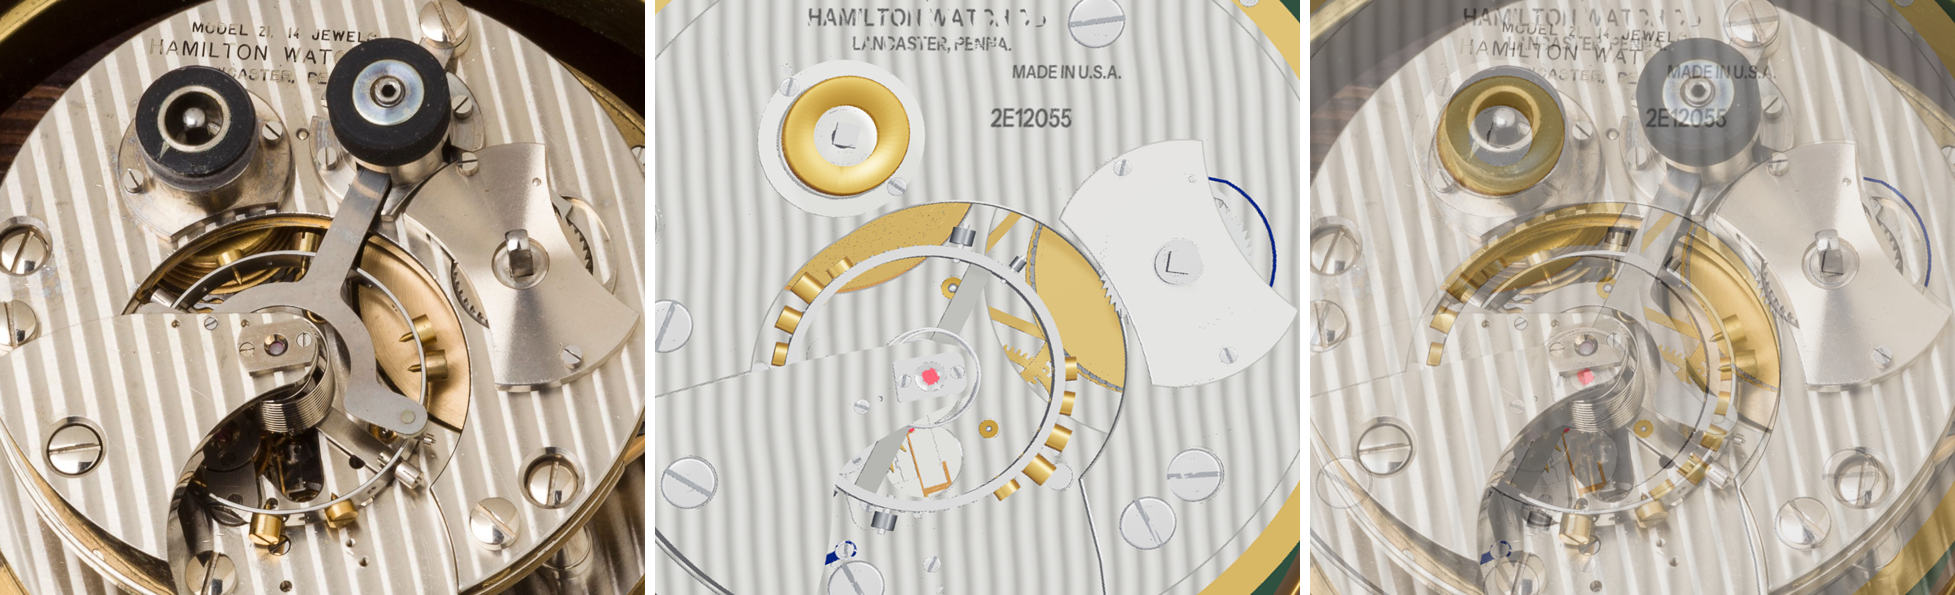
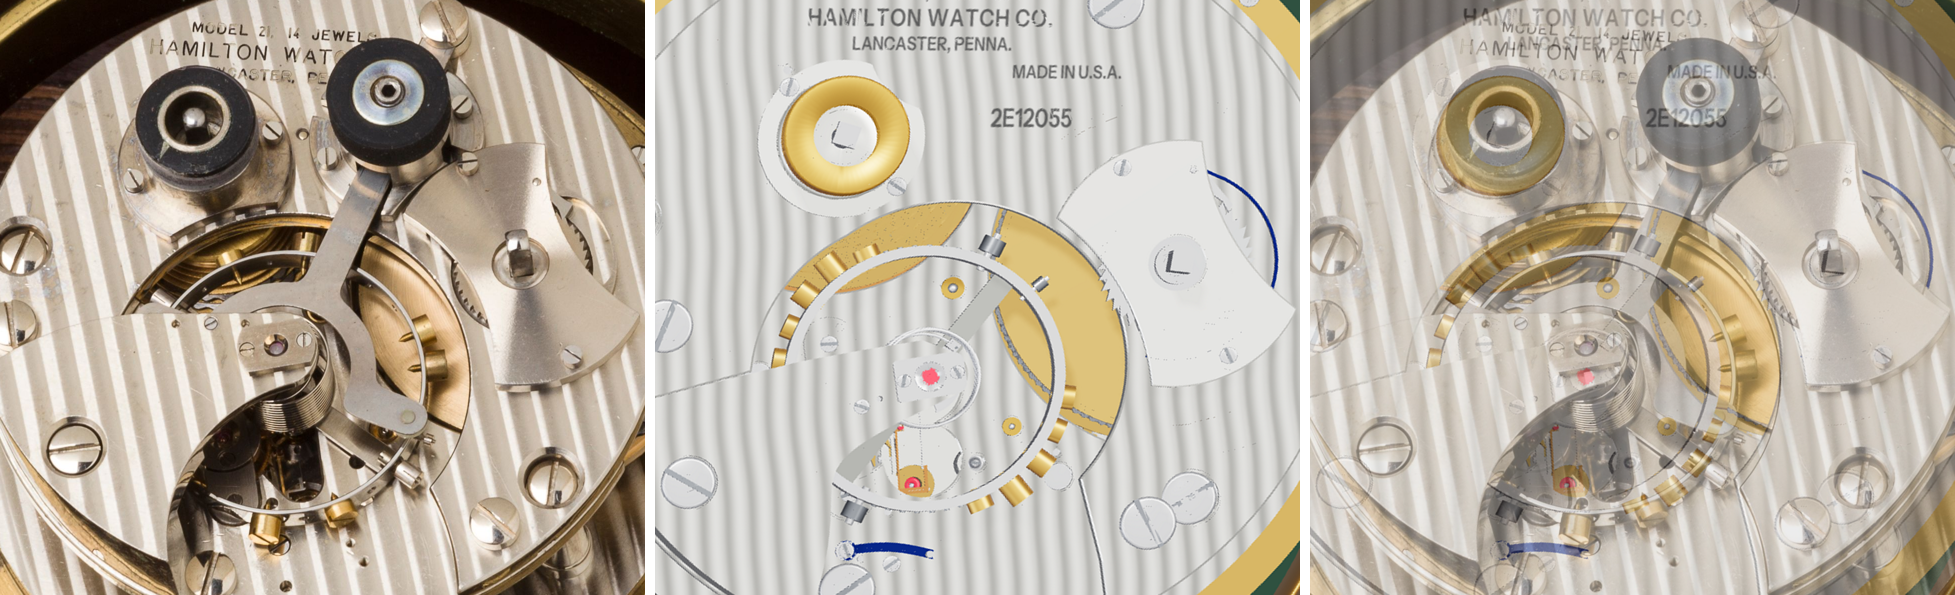
Setup cover symmetric, as both photographs show: two end arcs round the arbor and two like concave sides

diff --git a/chronometer-working-model.html b/chronometer-working-model.html
@@ -2419,14 +2419,15 @@ function buildMovement(M){
     hn(mesh(rt,stripGeo([...arcP,E],0.3,0.85),M.blued,0,BB_T-0.85,0),'42028');   /* on the bridge, up to the click's middle */
     for(const q of[P2(SR+0.42,a0+3),P2(SR-0.42,a0+12)])hn(cylBetween(rt,0.25,-27.71,-27.16,M.steel,...q),'42028',{sub:1});}
   const nBefore=rt.children.length;
-  { /* outline in polar coordinates about the arbor: left end arc, rim-side concave edge (to r 5.9, within 0.5 mm of the photograph), right end,
-       centre-side concave edge (to r 6.4) */
+  { /* outline in polar coordinates about the arbor, symmetric about its long axis (107.5 deg / 287.5 deg) and across it, as both photographs show: two end arcs
+       round the arbor at r 12.87, 76.5 deg wide, and two like concave edges to r 5.95, each bowed in about a tenth of its chord (photo-movement-2E12055: 0.104 and
+       0.109; the top-view photograph: 0.114 and 0.079; read by eye on each, the sides' difference within the reading's noise) */
     const arc3=(a,b,c,n)=>{const[ax,az]=a,[bx,bz]=b,[cx2,cz2]=c,d=2*(ax*(bz-cz2)+bx*(cz2-az)+cx2*(az-bz)),
         ux=((ax*ax+az*az)*(bz-cz2)+(bx*bx+bz*bz)*(cz2-az)+(cx2*cx2+cz2*cz2)*(az-bz))/d,uz=((ax*ax+az*az)*(cx2-bx)+(bx*bx+bz*bz)*(ax-cx2)+(cx2*cx2+cz2*cz2)*(bx-ax))/d,
         r=Math.hypot(ax-ux,az-uz),t0=Math.atan2(az-uz,ax-ux),tm=Math.atan2(bz-uz,bx-ux);let t1=Math.atan2(cz2-uz,cx2-ux);
       const w=t=>((t-t0)%TAU+TAU)%TAU;let dt=w(t1);if(w(tm)>dt)dt-=TAU;const o=[];for(let k=1;k<n;k++){const t=t0+dt*k/n;o.push([ux+r*Math.cos(t),uz+r*Math.sin(t)]);}return o;};
-    const TL=P2(12.8,69.4),BL=P2(13.1,145.6),BR=P2(12.97,249.2),TR=P2(12.61,325.9),pts=[],polar=(r0,r1,a0,a1,n)=>{const o=[];for(let k=0;k<=n;k++){const t=k/n;o.push(P2(lerp(r0,r1,t),lerp(a0,a1,t)));}return o;};
-    pts.push(TL,...arc3(TL,P2(13.1,106),BL,20),BL,...arc3(BL,P2(5.9,192),BR,40),BR,...polar(12.97,12.61,249.2,325.9,30).slice(1,-1),TR,...arc3(TR,P2(6.4,17),TL,40));
+    const CA=107.5,CH=38.25,CR=12.87,CW=5.95,TL=P2(CR,CA-CH),BL=P2(CR,CA+CH),BR=P2(CR,CA+180-CH),TR=P2(CR,CA+180+CH),pts=[],polar=(a0,a1,n)=>{const o=[];for(let k=1;k<n;k++)o.push(P2(CR,lerp(a0,a1,k/n)));return o;};
+    pts.push(TL,...polar(CA-CH,CA+CH,30),BL,...arc3(BL,P2(CW,CA+90),BR,40),BR,...polar(CA+180-CH,CA+180+CH,30),TR,...arc3(TR,P2(CW,CA-90),TL,40));
     const s=new THREE.Shape();pts.forEach(([x,z],i)=>i?s.lineTo(x,-z):s.moveTo(x,-z));s.closePath();
     for(const[x,z,r]of[[...L.Ba,3.0],...S.cover.map(q=>hC(...q,0.9)),hC(...S.click,0.6)]){const h=new THREE.Path();h.absarc(x,-z,r,0,TAU,true);s.holes.push(h);}
     const cvg=extrude(s,{depth:0.8,bevelEnabled:true,bevelThickness:0.15,bevelSize:0.15,bevelSegments:1,curveSegments:24});cvg.rotateX(-Math.PI/2);cvg.translate(0,0.15,0);

diff --git a/marine-chronometer-source/chronometer-working-model/dist/chronometer-working-model.html b/marine-chronometer-source/chronometer-working-model/dist/chronometer-working-model.html
@@ -2419,14 +2419,15 @@ function buildMovement(M){
     hn(mesh(rt,stripGeo([...arcP,E],0.3,0.85),M.blued,0,BB_T-0.85,0),'42028');   /* on the bridge, up to the click's middle */
     for(const q of[P2(SR+0.42,a0+3),P2(SR-0.42,a0+12)])hn(cylBetween(rt,0.25,-27.71,-27.16,M.steel,...q),'42028',{sub:1});}
   const nBefore=rt.children.length;
-  { /* outline in polar coordinates about the arbor: left end arc, rim-side concave edge (to r 5.9, within 0.5 mm of the photograph), right end,
-       centre-side concave edge (to r 6.4) */
+  { /* outline in polar coordinates about the arbor, symmetric about its long axis (107.5 deg / 287.5 deg) and across it, as both photographs show: two end arcs
+       round the arbor at r 12.87, 76.5 deg wide, and two like concave edges to r 5.95, each bowed in about a tenth of its chord (photo-movement-2E12055: 0.104 and
+       0.109; the top-view photograph: 0.114 and 0.079; read by eye on each, the sides' difference within the reading's noise) */
     const arc3=(a,b,c,n)=>{const[ax,az]=a,[bx,bz]=b,[cx2,cz2]=c,d=2*(ax*(bz-cz2)+bx*(cz2-az)+cx2*(az-bz)),
         ux=((ax*ax+az*az)*(bz-cz2)+(bx*bx+bz*bz)*(cz2-az)+(cx2*cx2+cz2*cz2)*(az-bz))/d,uz=((ax*ax+az*az)*(cx2-bx)+(bx*bx+bz*bz)*(ax-cx2)+(cx2*cx2+cz2*cz2)*(bx-ax))/d,
         r=Math.hypot(ax-ux,az-uz),t0=Math.atan2(az-uz,ax-ux),tm=Math.atan2(bz-uz,bx-ux);let t1=Math.atan2(cz2-uz,cx2-ux);
       const w=t=>((t-t0)%TAU+TAU)%TAU;let dt=w(t1);if(w(tm)>dt)dt-=TAU;const o=[];for(let k=1;k<n;k++){const t=t0+dt*k/n;o.push([ux+r*Math.cos(t),uz+r*Math.sin(t)]);}return o;};
-    const TL=P2(12.8,69.4),BL=P2(13.1,145.6),BR=P2(12.97,249.2),TR=P2(12.61,325.9),pts=[],polar=(r0,r1,a0,a1,n)=>{const o=[];for(let k=0;k<=n;k++){const t=k/n;o.push(P2(lerp(r0,r1,t),lerp(a0,a1,t)));}return o;};
-    pts.push(TL,...arc3(TL,P2(13.1,106),BL,20),BL,...arc3(BL,P2(5.9,192),BR,40),BR,...polar(12.97,12.61,249.2,325.9,30).slice(1,-1),TR,...arc3(TR,P2(6.4,17),TL,40));
+    const CA=107.5,CH=38.25,CR=12.87,CW=5.95,TL=P2(CR,CA-CH),BL=P2(CR,CA+CH),BR=P2(CR,CA+180-CH),TR=P2(CR,CA+180+CH),pts=[],polar=(a0,a1,n)=>{const o=[];for(let k=1;k<n;k++)o.push(P2(CR,lerp(a0,a1,k/n)));return o;};
+    pts.push(TL,...polar(CA-CH,CA+CH,30),BL,...arc3(BL,P2(CW,CA+90),BR,40),BR,...polar(CA+180-CH,CA+180+CH,30),TR,...arc3(TR,P2(CW,CA-90),TL,40));
     const s=new THREE.Shape();pts.forEach(([x,z],i)=>i?s.lineTo(x,-z):s.moveTo(x,-z));s.closePath();
     for(const[x,z,r]of[[...L.Ba,3.0],...S.cover.map(q=>hC(...q,0.9)),hC(...S.click,0.6)]){const h=new THREE.Path();h.absarc(x,-z,r,0,TAU,true);s.holes.push(h);}
     const cvg=extrude(s,{depth:0.8,bevelEnabled:true,bevelThickness:0.15,bevelSize:0.15,bevelSegments:1,curveSegments:24});cvg.rotateX(-Math.PI/2);cvg.translate(0,0.15,0);

diff --git a/site/index.html b/site/index.html
@@ -2425,14 +2425,15 @@ function buildMovement(M){
     hn(mesh(rt,stripGeo([...arcP,E],0.3,0.85),M.blued,0,BB_T-0.85,0),'42028');   /* on the bridge, up to the click's middle */
     for(const q of[P2(SR+0.42,a0+3),P2(SR-0.42,a0+12)])hn(cylBetween(rt,0.25,-27.71,-27.16,M.steel,...q),'42028',{sub:1});}
   const nBefore=rt.children.length;
-  { /* outline in polar coordinates about the arbor: left end arc, rim-side concave edge (to r 5.9, within 0.5 mm of the photograph), right end,
-       centre-side concave edge (to r 6.4) */
+  { /* outline in polar coordinates about the arbor, symmetric about its long axis (107.5 deg / 287.5 deg) and across it, as both photographs show: two end arcs
+       round the arbor at r 12.87, 76.5 deg wide, and two like concave edges to r 5.95, each bowed in about a tenth of its chord (photo-movement-2E12055: 0.104 and
+       0.109; the top-view photograph: 0.114 and 0.079; read by eye on each, the sides' difference within the reading's noise) */
     const arc3=(a,b,c,n)=>{const[ax,az]=a,[bx,bz]=b,[cx2,cz2]=c,d=2*(ax*(bz-cz2)+bx*(cz2-az)+cx2*(az-bz)),
         ux=((ax*ax+az*az)*(bz-cz2)+(bx*bx+bz*bz)*(cz2-az)+(cx2*cx2+cz2*cz2)*(az-bz))/d,uz=((ax*ax+az*az)*(cx2-bx)+(bx*bx+bz*bz)*(ax-cx2)+(cx2*cx2+cz2*cz2)*(bx-ax))/d,
         r=Math.hypot(ax-ux,az-uz),t0=Math.atan2(az-uz,ax-ux),tm=Math.atan2(bz-uz,bx-ux);let t1=Math.atan2(cz2-uz,cx2-ux);
       const w=t=>((t-t0)%TAU+TAU)%TAU;let dt=w(t1);if(w(tm)>dt)dt-=TAU;const o=[];for(let k=1;k<n;k++){const t=t0+dt*k/n;o.push([ux+r*Math.cos(t),uz+r*Math.sin(t)]);}return o;};
-    const TL=P2(12.8,69.4),BL=P2(13.1,145.6),BR=P2(12.97,249.2),TR=P2(12.61,325.9),pts=[],polar=(r0,r1,a0,a1,n)=>{const o=[];for(let k=0;k<=n;k++){const t=k/n;o.push(P2(lerp(r0,r1,t),lerp(a0,a1,t)));}return o;};
-    pts.push(TL,...arc3(TL,P2(13.1,106),BL,20),BL,...arc3(BL,P2(5.9,192),BR,40),BR,...polar(12.97,12.61,249.2,325.9,30).slice(1,-1),TR,...arc3(TR,P2(6.4,17),TL,40));
+    const CA=107.5,CH=38.25,CR=12.87,CW=5.95,TL=P2(CR,CA-CH),BL=P2(CR,CA+CH),BR=P2(CR,CA+180-CH),TR=P2(CR,CA+180+CH),pts=[],polar=(a0,a1,n)=>{const o=[];for(let k=1;k<n;k++)o.push(P2(CR,lerp(a0,a1,k/n)));return o;};
+    pts.push(TL,...polar(CA-CH,CA+CH,30),BL,...arc3(BL,P2(CW,CA+90),BR,40),BR,...polar(CA+180-CH,CA+180+CH,30),TR,...arc3(TR,P2(CW,CA-90),TL,40));
     const s=new THREE.Shape();pts.forEach(([x,z],i)=>i?s.lineTo(x,-z):s.moveTo(x,-z));s.closePath();
     for(const[x,z,r]of[[...L.Ba,3.0],...S.cover.map(q=>hC(...q,0.9)),hC(...S.click,0.6)]){const h=new THREE.Path();h.absarc(x,-z,r,0,TAU,true);s.holes.push(h);}
     const cvg=extrude(s,{depth:0.8,bevelEnabled:true,bevelThickness:0.15,bevelSize:0.15,bevelSegments:1,curveSegments:24});cvg.rotateX(-Math.PI/2);cvg.translate(0,0.15,0);

diff --git a/marine-chronometer-source/chronometer-working-model/js/movement.js b/marine-chronometer-source/chronometer-working-model/js/movement.js
@@ -871,14 +871,15 @@ function buildMovement(M){
     hn(mesh(rt,stripGeo([...arcP,E],0.3,0.85),M.blued,0,BB_T-0.85,0),'42028');   /* on the bridge, up to the click's middle */
     for(const q of[P2(SR+0.42,a0+3),P2(SR-0.42,a0+12)])hn(cylBetween(rt,0.25,-27.71,-27.16,M.steel,...q),'42028',{sub:1});}
   const nBefore=rt.children.length;
-  { /* outline in polar coordinates about the arbor: left end arc, rim-side concave edge (to r 5.9, within 0.5 mm of the photograph), right end,
-       centre-side concave edge (to r 6.4) */
+  { /* outline in polar coordinates about the arbor, symmetric about its long axis (107.5 deg / 287.5 deg) and across it, as both photographs show: two end arcs
+       round the arbor at r 12.87, 76.5 deg wide, and two like concave edges to r 5.95, each bowed in about a tenth of its chord (photo-movement-2E12055: 0.104 and
+       0.109; the top-view photograph: 0.114 and 0.079; read by eye on each, the sides' difference within the reading's noise) */
     const arc3=(a,b,c,n)=>{const[ax,az]=a,[bx,bz]=b,[cx2,cz2]=c,d=2*(ax*(bz-cz2)+bx*(cz2-az)+cx2*(az-bz)),
         ux=((ax*ax+az*az)*(bz-cz2)+(bx*bx+bz*bz)*(cz2-az)+(cx2*cx2+cz2*cz2)*(az-bz))/d,uz=((ax*ax+az*az)*(cx2-bx)+(bx*bx+bz*bz)*(ax-cx2)+(cx2*cx2+cz2*cz2)*(bx-ax))/d,
         r=Math.hypot(ax-ux,az-uz),t0=Math.atan2(az-uz,ax-ux),tm=Math.atan2(bz-uz,bx-ux);let t1=Math.atan2(cz2-uz,cx2-ux);
       const w=t=>((t-t0)%TAU+TAU)%TAU;let dt=w(t1);if(w(tm)>dt)dt-=TAU;const o=[];for(let k=1;k<n;k++){const t=t0+dt*k/n;o.push([ux+r*Math.cos(t),uz+r*Math.sin(t)]);}return o;};
-    const TL=P2(12.8,69.4),BL=P2(13.1,145.6),BR=P2(12.97,249.2),TR=P2(12.61,325.9),pts=[],polar=(r0,r1,a0,a1,n)=>{const o=[];for(let k=0;k<=n;k++){const t=k/n;o.push(P2(lerp(r0,r1,t),lerp(a0,a1,t)));}return o;};
-    pts.push(TL,...arc3(TL,P2(13.1,106),BL,20),BL,...arc3(BL,P2(5.9,192),BR,40),BR,...polar(12.97,12.61,249.2,325.9,30).slice(1,-1),TR,...arc3(TR,P2(6.4,17),TL,40));
+    const CA=107.5,CH=38.25,CR=12.87,CW=5.95,TL=P2(CR,CA-CH),BL=P2(CR,CA+CH),BR=P2(CR,CA+180-CH),TR=P2(CR,CA+180+CH),pts=[],polar=(a0,a1,n)=>{const o=[];for(let k=1;k<n;k++)o.push(P2(CR,lerp(a0,a1,k/n)));return o;};
+    pts.push(TL,...polar(CA-CH,CA+CH,30),BL,...arc3(BL,P2(CW,CA+90),BR,40),BR,...polar(CA+180-CH,CA+180+CH,30),TR,...arc3(TR,P2(CW,CA-90),TL,40));
     const s=new THREE.Shape();pts.forEach(([x,z],i)=>i?s.lineTo(x,-z):s.moveTo(x,-z));s.closePath();
     for(const[x,z,r]of[[...L.Ba,3.0],...S.cover.map(q=>hC(...q,0.9)),hC(...S.click,0.6)]){const h=new THREE.Path();h.absarc(x,-z,r,0,TAU,true);s.holes.push(h);}
     const cvg=extrude(s,{depth:0.8,bevelEnabled:true,bevelThickness:0.15,bevelSize:0.15,bevelSegments:1,curveSegments:24});cvg.rotateX(-Math.PI/2);cvg.translate(0,0.15,0);

diff --git a/marine-chronometer-source/chronometer-working-model/README.md b/marine-chronometer-source/chronometer-working-model/README.md
@@ -435,7 +435,7 @@ the rate from its own geometry, so the Adjuster's bench changes both (`ESC.A`,
    - the crescent balance cock (`tools/cock_outline.json`), shifted for its height parallax so its endstone lands over the staff. The traced edge passes 0.7 mm from the staff, too close for the upper setting and the endstone cap, so the nose is widened round the cap (see "Estimated"). The outline is the cock's top: the cock is one solid block (C Spinner's restoration video, the cock off at 41:58 and 23:45, in place from the side at 2:36; `References/VIDEOS.md`), its outer wall following the rim the full 14.2 mm down to the train bridge, and only its nose an arm 2.6 mm thick over the balance. The body is all of the outline more than 17.7 mm from the staff, the circle the barrel bridge is cut on; the screw's head lies in a counterbore, and two steady pins go into the train bridge;
    - the barrel bridge's far horn, past the balance on the 6 o'clock side to about 100°, where a cut from the balance's opening to the rim ends it, and its two screws;
    - the barrel bridge's cut round the balance. Its edge, traced on `References/photo-top-view.jpg` through an affine map fitted to five screws on the barrel bridge (within 0.6 mm), fits a circle of r 17.6 about (5.24, 6.33) to 1.3 mm: 2.8 mm off the staff toward the barrel, so it reaches 20.5 mm from the staff on that side. The cut is that circle joined with the balance's clearance circle (r 17.7 about the staff), and the barrel's cap and the fusee's large end show through it, as photographed. On the cock's side the bridge's horn ends against the cock's straight edge, which meets the rim about 5° round from 3 o'clock: with the cock off (6:47) the bridge's edge meets the rim there, and the bridge laid flat (23:30) ends that horn at 2–9°, so the cock stands on the train bridge in the bridge's opening;
-   - the setup cover over the ratchet: a waisted plate across the arbor, its ends arcs about 13 mm out, both long sides concave to about 6 mm from the arbor, so the ratchet's teeth show on either side and the click's tip on the rim side (as in Fig. 24 and the 2E12055 photograph). Traced through a fit to its two screws and the arbor; the rim-side edge is an arc within 0.5 mm of the tracing. And the ratchet's size (about 52 teeth, 15.6 mm across);
+   - the setup cover over the ratchet: a waisted plate across the arbor, symmetric about its long axis and across it, as both photographs show: its ends arcs round the arbor at r 12.87, 76.5° wide, both long sides like concave arcs to 5.95 mm from the arbor, each bowed in about a tenth of its chord, so the ratchet's teeth show on either side and the click's tip on the rim side (as in Fig. 24 and the 2E12055 photograph). Traced through a fit to its two screws and the arbor; the sides' bow read by eye on the two photographs (0.08-0.11 of the chord; the difference between the sides within the reading's noise). And the ratchet's size (about 52 teeth, 15.6 mm across);
    - the screw positions;
    - the engraving columns (`tools/engr.json`);
    - the damascene direction. The damascening is on the plates' and bridges' train-side faces only; their undersides, edges and bevels, and the balance lower bridge all over, are plain, as the restoration video shows them (`plainFaces` in `core.js`, which pins those faces' uvs to a ridge's crest).

diff --git a/RESOLVED.md b/RESOLVED.md
@@ -1019,6 +1019,14 @@ Contents:
   Traced through a fit to the cover's two screws and the arbor; the edge is an
   arc within 0.5 mm of the tracing. Keep: check the cover against the
   photograph with `tools/topview.py`. `54fdbfb`
+- **Setup cover lopsided.** Its centre-side edge came to 6.4 mm from the arbor
+  and bowed in 0.07 of its chord against the rim side's 5.9 mm and 0.105, and
+  its four corners stood at 12.6-13.1 mm, one end an arc through three points,
+  the other a spiral. Both photographs show a plate symmetric about its long
+  axis and across it, both sides bowed alike (about 0.1 of the chord). Now two
+  end arcs round the arbor (r 12.87, 76.5°) and two like concave sides to
+  5.95 mm; the click's tip is still 0.5 mm clear in the rim-side gap. Keep:
+  the outline built symmetric (`CA`, `CH`, `CR`, `CW`).
 - **Engraving under the dust seal.** "MARINE CHRONOMETER" and "TWO-DAY, 56
   HOURS" were shortened so the flange no longer covers them. `9606cc3` The
   photographed text that replaced them runs full length; the block moved
